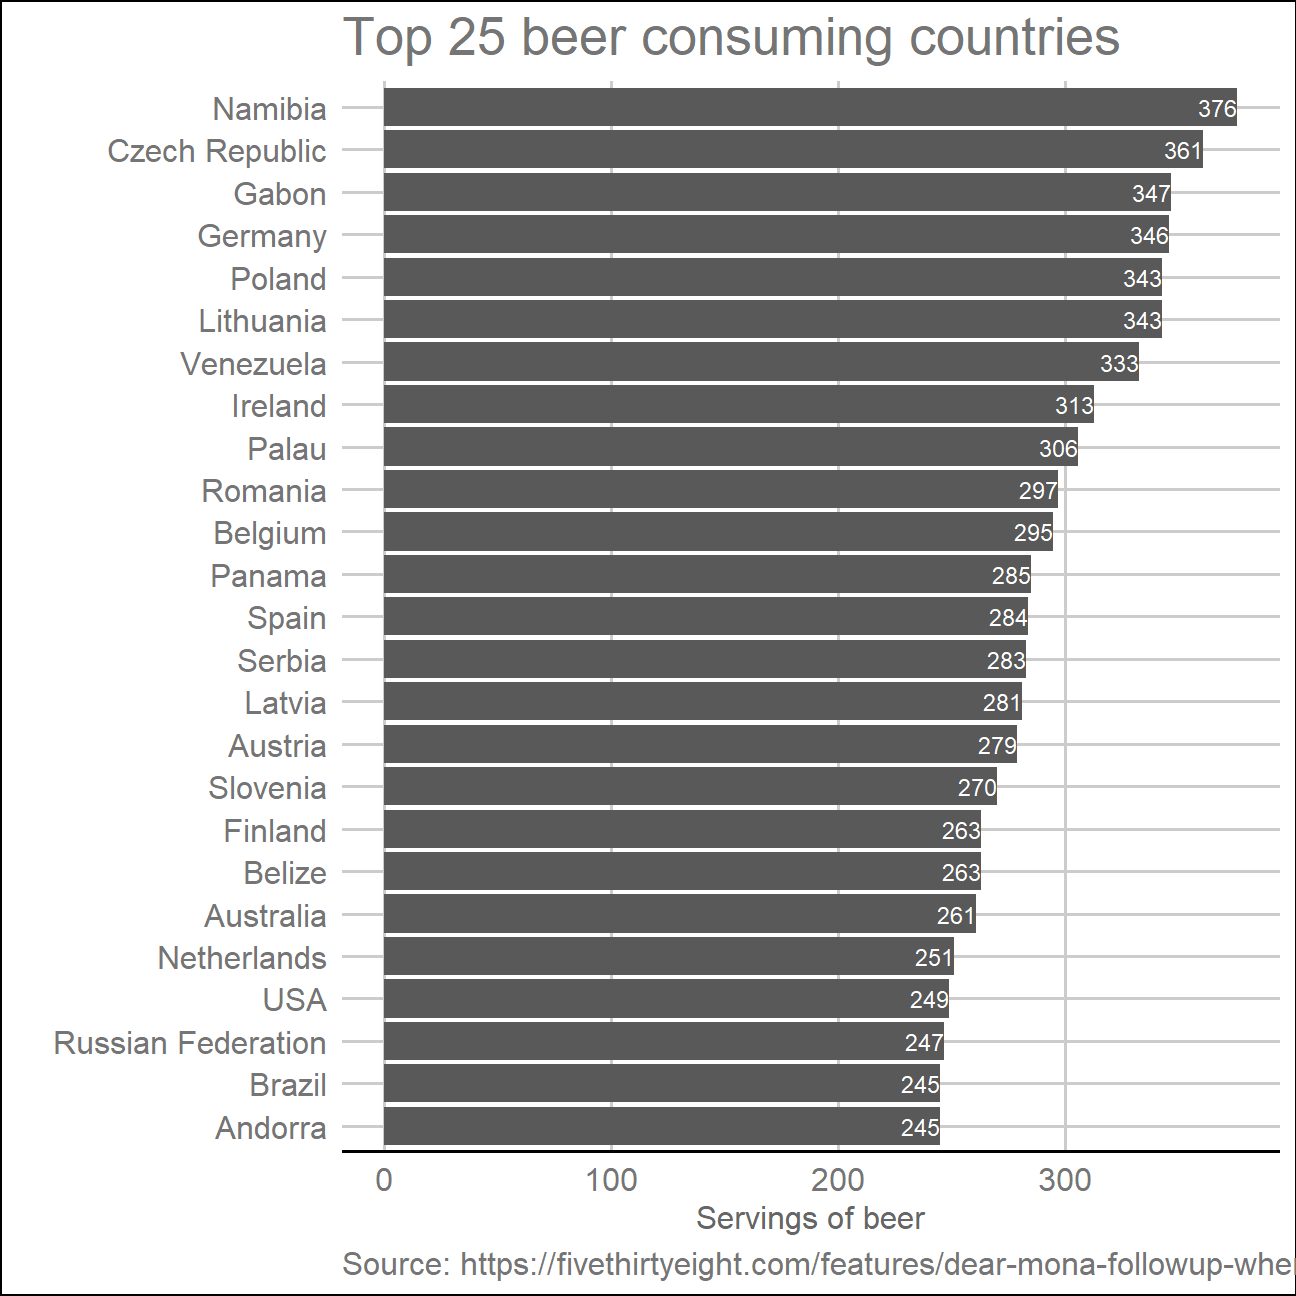
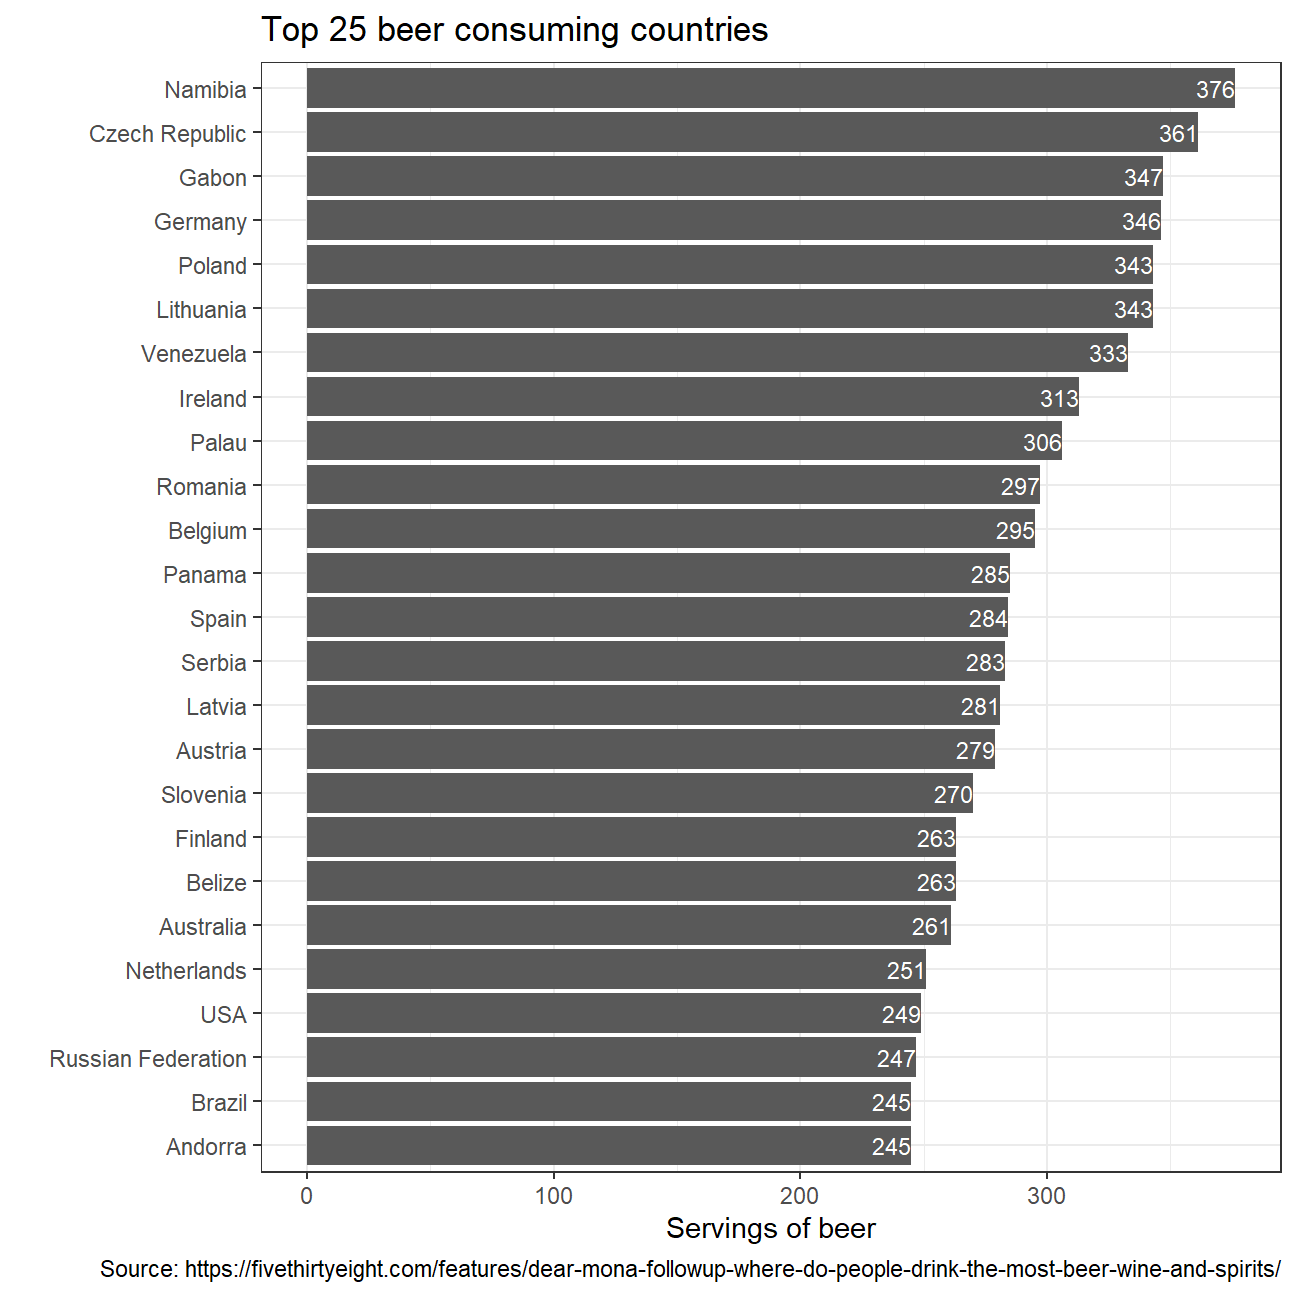
finish

Changed region(s): [[0.0, 0.0, 1.0, 1.0]]

diff --git a/content/projects/project1.html b/content/projects/project1.html
@@ -173,13 +173,13 @@ data(drinks)</code></pre>
   slice_max(n=25,beer_servings) %&gt;% 
   ggplot(mapping = aes(y = reorder(country,beer_servings), x = beer_servings)) +
   geom_col()+
-  theme_gdocs()+
+  theme_bw()+
   labs(
     x = &quot;Servings of beer&quot;,
     y= &quot;&quot; ,
     title = &quot;Top 25 beer consuming countries&quot;,
     caption = &quot;Source: https://fivethirtyeight.com/features/dear-mona-followup-where-do-people-drink-the-most-beer-wine-and-spirits/&quot;
-    ) + 
+    )+ 
     geom_text(aes(label = beer_servings), vjust=0.5, hjust=1, colour = &quot;white&quot;, position = position_dodge(.9), size = 3)</code></pre>
 <p><img src="/projects/project1_files/figure-html/beer_plot-1.png" width="648" style="display: block; margin: auto;" /></p>
 <p><strong>Beer commentary:</strong></p>
@@ -195,13 +195,13 @@ data(drinks)</code></pre>
   slice_max(n=25,wine_servings) %&gt;% 
   ggplot(mapping = aes(y = reorder(country,wine_servings), x = wine_servings)) +
   geom_col()+
-  theme()+
+  theme_bw()+
   labs(
     x = &quot;Servings of wine&quot;,
     y= &quot;&quot; ,
     title = &quot;Top 25 wine consuming countries&quot;,
     caption = &quot;Source: https://fivethirtyeight.com/features/dear-mona-followup-where-do-people-drink-the-most-beer-wine-and-spirits/&quot;
-    ) + 
+    )+ 
     geom_text(aes(label = wine_servings), vjust=0.5, hjust=1, colour = &quot;white&quot;, position = position_dodge(.9), size = 3)</code></pre>
 <p><img src="/projects/project1_files/figure-html/wine_plot-1.png" width="648" style="display: block; margin: auto;" /></p>
 <p><strong>Wine commentary:</strong></p>
@@ -216,13 +216,13 @@ data(drinks)</code></pre>
   slice_max(n=25,spirit_servings) %&gt;% 
   ggplot(mapping = aes(y = reorder(country,spirit_servings), x = spirit_servings)) +
   geom_col()+
-  theme()+
+  theme_bw()+
   labs(
     x = &quot;Servings of spirit&quot;,
     y= &quot;&quot; ,
     title = &quot;Top 25 spirit consuming countries&quot;,
     caption = &quot;Source: https://fivethirtyeight.com/features/dear-mona-followup-where-do-people-drink-the-most-beer-wine-and-spirits/&quot;
-    ) + 
+    )+ 
     geom_text(aes(label = spirit_servings), vjust=0.5, hjust=1, colour = &quot;white&quot;, position = position_dodge(.9), size = 3)</code></pre>
 <p><img src="/projects/project1_files/figure-html/spirit_plot-1.png" width="648" style="display: block; margin: auto;" /></p>
 <p><strong>Spirit commentary</strong></p>
